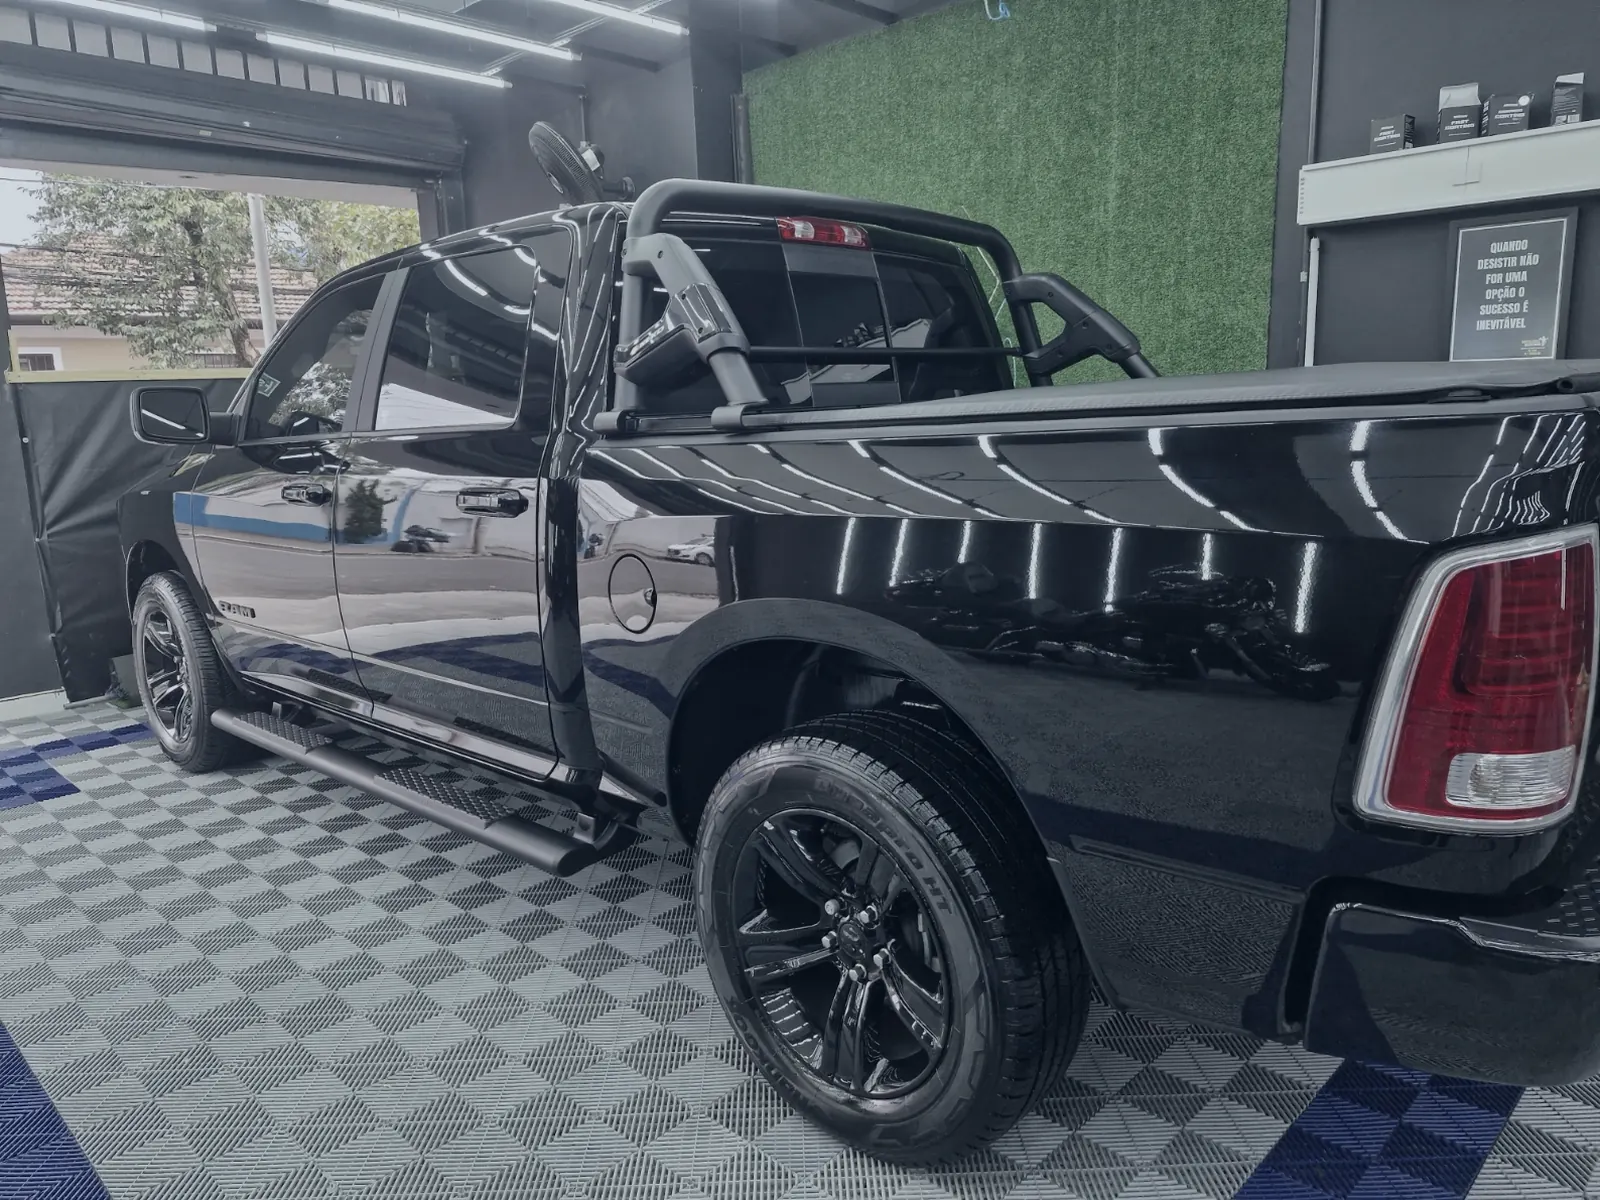
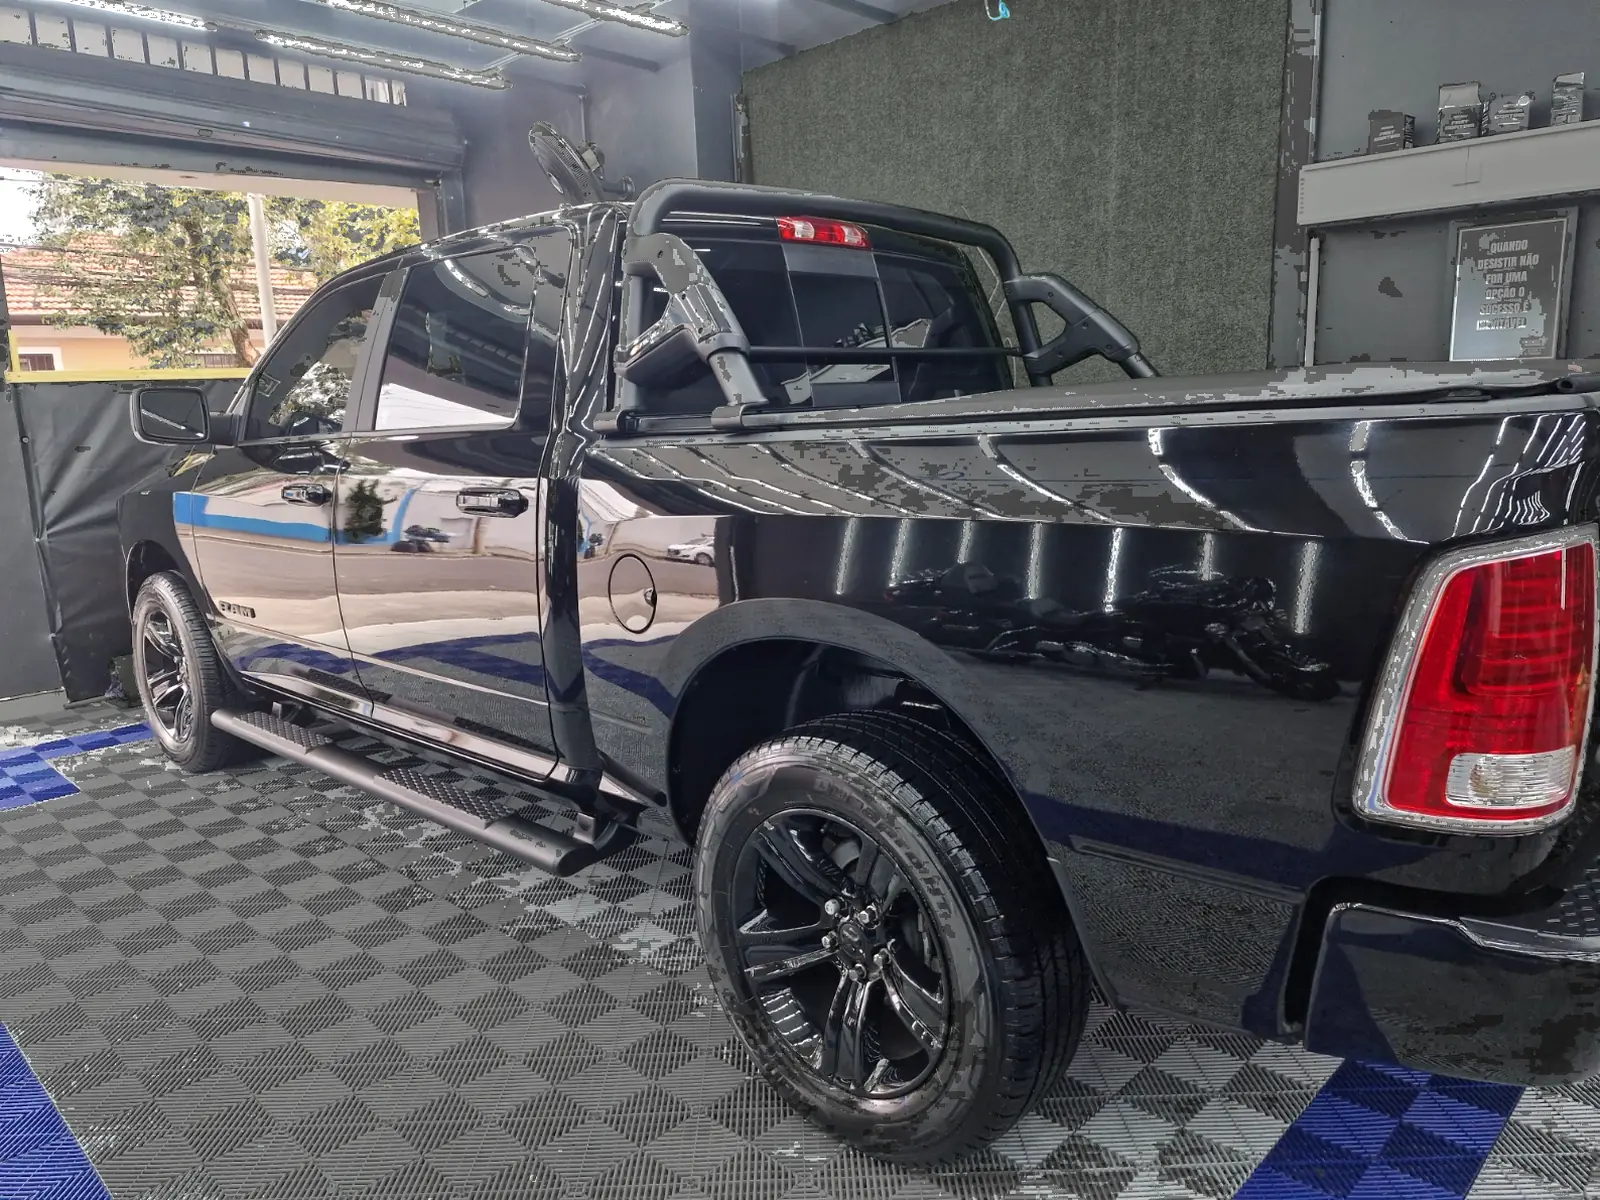
Sem metálico e com texturas da oficina no fundo
- Títulos sem efeito cromado no site todo (branco chapado).
- Proposta: foto do topo com as cores naturais (só a parede verde
  apagada), vidro mais azul e transparente, sem o selo prateado na
  chamada final.
- Texturas de fundo (componente Textura): hexágonos do teto de LED,
  piso quadriculado em perspectiva e fibra de carbono, alternadas entre
  as seções da proposta e atrás do orçamento.

Claude-Session: https://claude.ai/code/session_01Va3tHox5JGpQJ8MYLeRYYg

diff --git a/src/styles/vidro.css b/src/styles/vidro.css
@@ -32,15 +32,15 @@
 .vidro {
   position: relative;
   isolation: isolate;
-  background: linear-gradient(135deg, rgba(255, 255, 255, 0.16), rgba(255, 255, 255, 0.04) 60%);
-  border: 1px solid rgba(255, 255, 255, 0.2);
+  /* azul transparente, não branco: o vidro puxa a cor da marca */
+  background: linear-gradient(135deg, rgba(92, 200, 240, 0.13), rgba(35, 120, 179, 0.07) 60%);
+  border: 1px solid rgba(143, 212, 239, 0.26);
   border-radius: var(--raio, 22px);
   box-shadow:
-    inset 0 1px 0 rgba(255, 255, 255, 0.38),
-    inset 0 -1px 0 rgba(255, 255, 255, 0.06),
+    inset 0 1px 0 rgba(190, 232, 255, 0.28),
     0 24px 48px -22px rgba(0, 0, 0, 0.6);
-  -webkit-backdrop-filter: blur(18px) saturate(1.7);
-  backdrop-filter: blur(18px) saturate(1.7);
+  -webkit-backdrop-filter: blur(16px) saturate(1.8);
+  backdrop-filter: blur(16px) saturate(1.8);
 }
 /* reflexo no canto do vidro */
 .vidro::before {
@@ -49,7 +49,7 @@
   inset: 0;
   z-index: -1;
   border-radius: inherit;
-  background: radial-gradient(120% 70% at 12% 0%, rgba(255, 255, 255, 0.2), transparent 55%);
+  background: radial-gradient(120% 70% at 12% 0%, rgba(143, 212, 239, 0.14), transparent 55%);
   pointer-events: none;
 }
 
@@ -81,13 +81,13 @@
   box-shadow: inset 0 1px 0 rgba(255, 255, 255, 0.45), 0 12px 30px -10px rgba(46, 143, 214, 0.85);
 }
 .btn--vidro {
-  background: rgba(255, 255, 255, 0.1);
-  border-color: rgba(255, 255, 255, 0.3);
-  box-shadow: inset 0 1px 0 rgba(255, 255, 255, 0.35);
+  background: rgba(92, 200, 240, 0.12);
+  border-color: rgba(143, 212, 239, 0.4);
+  box-shadow: inset 0 1px 0 rgba(190, 232, 255, 0.3);
   -webkit-backdrop-filter: blur(14px) saturate(1.6);
   backdrop-filter: blur(14px) saturate(1.6);
 }
-.btn--vidro:hover { background: rgba(255, 255, 255, 0.18); }
+.btn--vidro:hover { background: rgba(92, 200, 240, 0.22); }
 .btn--whats {
   background: linear-gradient(135deg, #34e07f, #16a34e);
   border-color: rgba(255, 255, 255, 0.25);
@@ -103,9 +103,9 @@
   gap: 0.55rem;
   width: fit-content;
   padding: 0.45rem 0.95rem;
-  border: 1px solid rgba(255, 255, 255, 0.22);
+  border: 1px solid rgba(143, 212, 239, 0.3);
   border-radius: 999px;
-  background: rgba(255, 255, 255, 0.08);
+  background: rgba(92, 200, 240, 0.1);
   -webkit-backdrop-filter: blur(12px) saturate(1.5);
   backdrop-filter: blur(12px) saturate(1.5);
   font-family: var(--f-apoio);

diff --git a/src/styles/global.css b/src/styles/global.css
@@ -175,26 +175,10 @@ ol[role='list'] { list-style: none; padding: 0; }
   white-space: nowrap; border: 0;
 }
 
-/* ---------- cromado: as letras LM do logo ---------- */
-/* Use num <span> dentro do título: cada linha ganha o próprio reflexo.
-   --brilho move uma faixa de luz pelo texto (animada no scroll). */
+/* ---------- títulos ---------- */
+/* Antes era um efeito cromado (prata); o cliente preferiu sem metálico.
+   A classe continua nos títulos, agora só em branco. */
 .cromado { color: var(--branco); }
-@supports ((-webkit-background-clip: text) or (background-clip: text)) {
-  .cromado {
-    background-image:
-      linear-gradient(100deg, transparent 0 42%, rgba(255, 255, 255, 0.95) 50%, transparent 58% 100%),
-      var(--cromo);
-    background-size: 260% 100%, 100% 100%;
-    background-position: var(--brilho, 100%) 0, 0 0;
-    background-repeat: no-repeat;
-    -webkit-background-clip: text;
-    background-clip: text;
-    color: transparent;
-    -webkit-box-decoration-break: clone;
-    box-decoration-break: clone;
-    filter: drop-shadow(0 0 0.5px rgba(143, 212, 239, 0.9)) drop-shadow(0 0.06em 0.12em rgba(0, 0, 0, 0.55));
-  }
-}
 
 /* ---------- botões metálicos ---------- */
 
